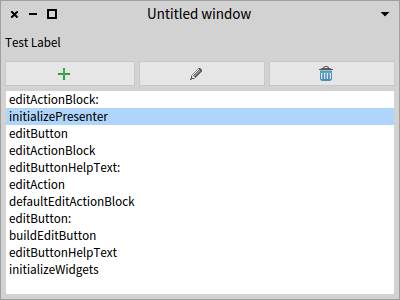
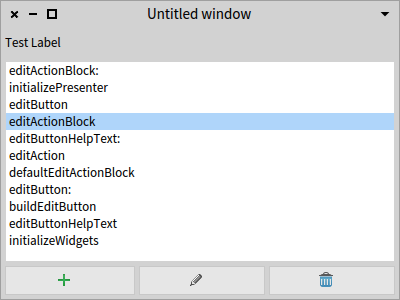
Adding screenshot descriptions

diff --git a/README.md b/README.md
@@ -3,7 +3,7 @@
 
 # Description
 
-Add-ons for Spec (Smalltalk UI description framework).
+This package provides widgets for Spec (Pharo Smalltalk UI description framework).
 
 # Installation
 
@@ -27,11 +27,11 @@ Operation buttons can be placed on bottom:
 
 ![Screenshot 2](screenshots/01_SpcEditableList_code_2.png)
 
-Widget with no items selected:
+Widget with buttons on top and no items selected:
 
 ![Screenshot 3](screenshots/01_SpcEditableList_widget_1.png)
 
-Widget with items selected:
+Widget with buttons on bottom and item selected:
 
 ![Screenshot 4](screenshots/01_SpcEditableList_widget_2.png)
 
@@ -125,12 +125,11 @@ Provides two lists, acting as master-detail.
 
 ![Screenshot 32](screenshots/12_SpcGrowableSearchList_widget_2.png)
 
-# Usage
-
-It requires you already have some experience building Spec user-interfaces. Most widgets can be used by composition (i.e.: in the #instantiateModels: inside your #initializeWidgets). Some other widgets are intended to be subclassed.
 
 # Usage notes
 
+  - It requires you already have some experience building Spec user-interfaces.
+    - Most widgets can be used by composition (i.e.: in the #instantiateModels: inside your #initializeWidgets). Some other widgets are intended to be subclassed.
   - The SpecUIAddOns classes begins with Spc prefix.
   - Most widgets implements example methods in the class side, category "examples"
 
